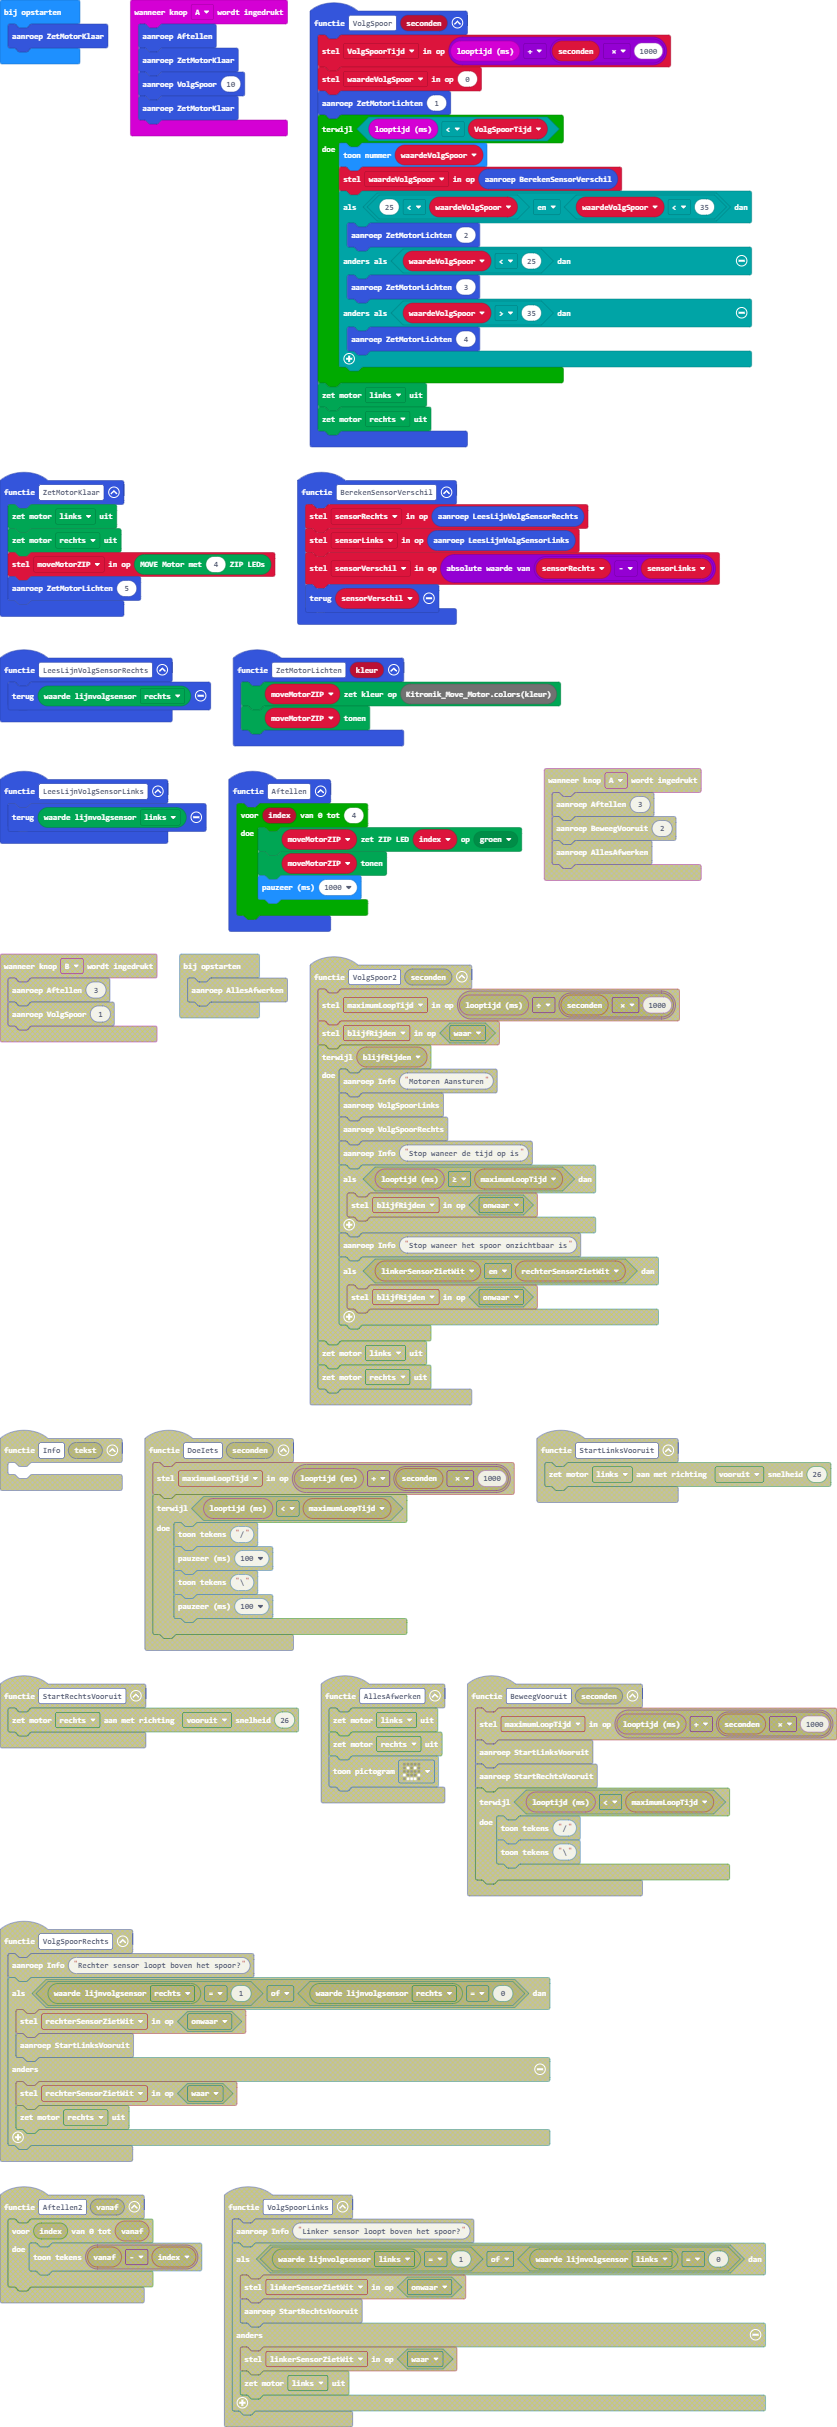
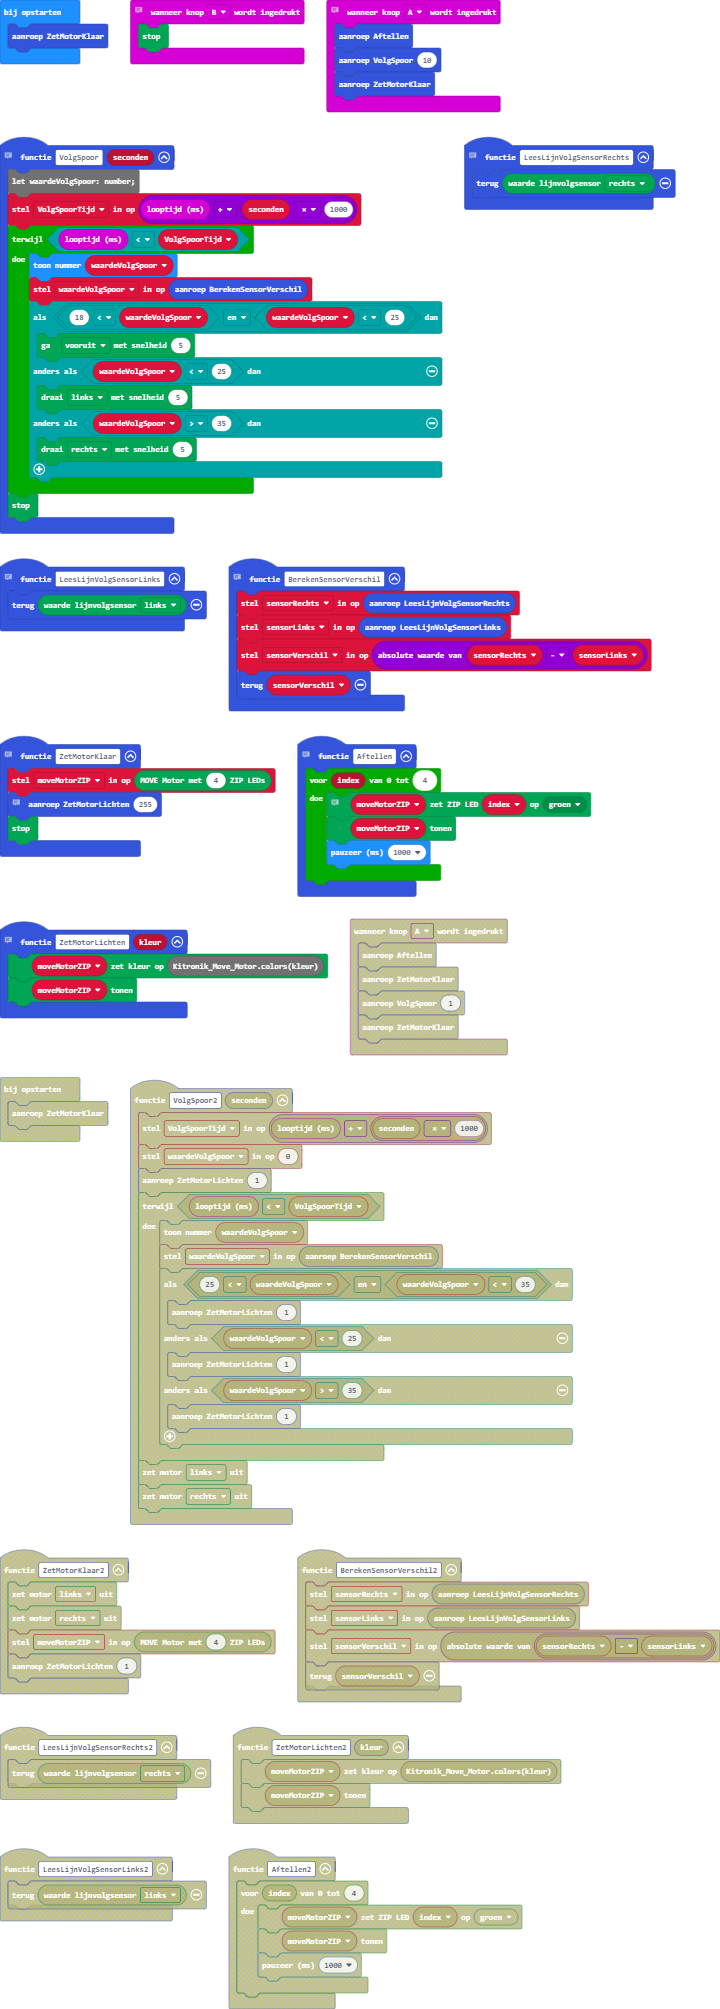
main.blocks, main.ts, main.py bijwerken

diff --git a/main.ts b/main.ts
@@ -1,57 +1,66 @@
+// Tel van 4 tot 0 en verander telkens 1 LED van kleur.
 function Aftellen () {
     for (let index = 0; index <= 4; index++) {
+        // Kitronik_Move_Motor.ZipLedColors.GREEN = 65280
         moveMotorZIP.setZipLedColor(index, Kitronik_Move_Motor.colors(Kitronik_Move_Motor.ZipLedColors.Green))
         moveMotorZIP.show()
         basic.pause(1000)
     }
 }
+// Waneer op knop A gedrukt word tel af en volg het spoor geduurende 10 seconden.
 input.onButtonPressed(Button.A, function () {
     Aftellen()
-    ZetMotorKlaar()
     VolgSpoor(10)
     ZetMotorKlaar()
 })
+// Zet de :Move motor klaar voor hij de lijn zal volgen.
 function ZetMotorKlaar () {
-    Kitronik_Move_Motor.motorOff(Kitronik_Move_Motor.Motors.MotorLeft)
-    Kitronik_Move_Motor.motorOff(Kitronik_Move_Motor.Motors.MotorRight)
     moveMotorZIP = Kitronik_Move_Motor.createMoveMotorZIPLED(4)
-    ZetMotorLichten(5)
+    // Kitronik_Move_Motor.ZipLedColors.BLUE = 255
+    ZetMotorLichten(255)
+    Kitronik_Move_Motor.stop()
 }
+// Bereken het verschil tussen de linkse en rechtse sensor.
 function BerekenSensorVerschil () {
     sensorRechts = LeesLijnVolgSensorRechts()
     sensorLinks = LeesLijnVolgSensorLinks()
     sensorVerschil = Math.abs(sensorRechts - sensorLinks)
     return sensorVerschil
 }
+// Lees de waarde van de rechter lijnvolgsensor. Deze kan tussen de 0 en de 1023 liggen.
 function LeesLijnVolgSensorRechts () {
     return Kitronik_Move_Motor.readSensor(Kitronik_Move_Motor.LfSensor.Right)
 }
+// De functie om het spoor te volgen.
 function VolgSpoor (seconden: number) {
-    VolgSpoorTijd = input.runningTime() + seconden * 1000
-    waardeVolgSpoor = 0
-    ZetMotorLichten(1)
+    let waardeVolgSpoor: number;
+VolgSpoorTijd = input.runningTime() + seconden * 1000
     while (input.runningTime() < VolgSpoorTijd) {
         basic.showNumber(waardeVolgSpoor)
         waardeVolgSpoor = BerekenSensorVerschil()
-        if (25 < waardeVolgSpoor && waardeVolgSpoor < 35) {
-            ZetMotorLichten(2)
+        if (18 < waardeVolgSpoor && waardeVolgSpoor < 25) {
+            Kitronik_Move_Motor.move(Kitronik_Move_Motor.DriveDirections.Forward, 5)
         } else if (waardeVolgSpoor < 25) {
-            ZetMotorLichten(3)
+            Kitronik_Move_Motor.spin(Kitronik_Move_Motor.SpinDirections.Left, 5)
         } else if (waardeVolgSpoor > 35) {
-            ZetMotorLichten(4)
+            Kitronik_Move_Motor.spin(Kitronik_Move_Motor.SpinDirections.Right, 5)
         }
     }
-    Kitronik_Move_Motor.motorOff(Kitronik_Move_Motor.Motors.MotorLeft)
-    Kitronik_Move_Motor.motorOff(Kitronik_Move_Motor.Motors.MotorRight)
+    Kitronik_Move_Motor.stop()
 }
+// Waneer op knop B gedrukt wordt stop de :Move motor.
+input.onButtonPressed(Button.B, function () {
+    Kitronik_Move_Motor.stop()
+})
+// Zet de LEDs op een andere kleur. De waarden kan je terugvinden op: https://github.com/KitronikLtd/pxt-kitronik-zip-64/blob/master/zip64.ts.
 function ZetMotorLichten (kleur: number) {
     moveMotorZIP.setColor(Kitronik_Move_Motor.colors(kleur))
     moveMotorZIP.show()
 }
+// Lees de waarde van de linker lijnvolgsensor. Deze kan tussen de 0 en de 1023 liggen.
 function LeesLijnVolgSensorLinks () {
     return Kitronik_Move_Motor.readSensor(Kitronik_Move_Motor.LfSensor.Left)
 }
-let waardeVolgSpoor = 0
 let VolgSpoorTijd = 0
 let sensorVerschil = 0
 let sensorLinks = 0

diff --git a/main.py b/main.py
@@ -1,0 +1,66 @@
+# Tel van 4 tot 0 en verander telkens 1 LED van kleur.
+def Aftellen():
+    for index in range(5):
+        # Kitronik_Move_Motor.ZipLedColors.GREEN = 65280
+        moveMotorZIP.set_zip_led_color(index,
+            Kitronik_Move_Motor.colors(Kitronik_Move_Motor.ZipLedColors.GREEN))
+        moveMotorZIP.show()
+        basic.pause(1000)
+# Waneer op knop A gedrukt word tel af en volg het spoor geduurende 10 seconden.
+
+def on_button_pressed_a():
+    Aftellen()
+    VolgSpoor(10)
+    ZetMotorKlaar()
+input.on_button_pressed(Button.A, on_button_pressed_a)
+
+# Zet de :Move motor klaar voor hij de lijn zal volgen.
+def ZetMotorKlaar():
+    global moveMotorZIP
+    moveMotorZIP = Kitronik_Move_Motor.create_move_motor_zipled(4)
+    # Kitronik_Move_Motor.ZipLedColors.BLUE = 255
+    ZetMotorLichten(255)
+    Kitronik_Move_Motor.stop()
+# Bereken het verschil tussen de linkse en rechtse sensor.
+def BerekenSensorVerschil():
+    global sensorRechts, sensorLinks, sensorVerschil
+    sensorRechts = LeesLijnVolgSensorRechts()
+    sensorLinks = LeesLijnVolgSensorLinks()
+    sensorVerschil = abs(sensorRechts - sensorLinks)
+    return sensorVerschil
+# Lees de waarde van de rechter lijnvolgsensor. Deze kan tussen de 0 en de 1023 liggen.
+def LeesLijnVolgSensorRechts():
+    return Kitronik_Move_Motor.read_sensor(Kitronik_Move_Motor.LfSensor.RIGHT)
+# De functie om het spoor te volgen.
+def VolgSpoor(seconden: number):
+    global VolgSpoorTijd
+    VolgSpoorTijd = input.running_time() + seconden * 1000
+    while input.running_time() < VolgSpoorTijd:
+        basic.show_number(waardeVolgSpoor)
+        waardeVolgSpoor = BerekenSensorVerschil()
+        if 18 < waardeVolgSpoor and waardeVolgSpoor < 25:
+            Kitronik_Move_Motor.move(Kitronik_Move_Motor.DriveDirections.FORWARD, 5)
+        elif waardeVolgSpoor < 25:
+            Kitronik_Move_Motor.spin(Kitronik_Move_Motor.SpinDirections.LEFT, 5)
+        elif waardeVolgSpoor > 35:
+            Kitronik_Move_Motor.spin(Kitronik_Move_Motor.SpinDirections.RIGHT, 5)
+    Kitronik_Move_Motor.stop()
+# Waneer op knop B gedrukt wordt stop de :Move motor.
+
+def on_button_pressed_b():
+    Kitronik_Move_Motor.stop()
+input.on_button_pressed(Button.B, on_button_pressed_b)
+
+# Zet de LEDs op een andere kleur. De waarden kan je terugvinden op: https://github.com/KitronikLtd/pxt-kitronik-zip-64/blob/master/zip64.ts.
+def ZetMotorLichten(kleur: number):
+    moveMotorZIP.set_color(Kitronik_Move_Motor.colors(kleur))
+    moveMotorZIP.show()
+# Lees de waarde van de linker lijnvolgsensor. Deze kan tussen de 0 en de 1023 liggen.
+def LeesLijnVolgSensorLinks():
+    return Kitronik_Move_Motor.read_sensor(Kitronik_Move_Motor.LfSensor.LEFT)
+VolgSpoorTijd = 0
+sensorVerschil = 0
+sensorLinks = 0
+sensorRechts = 0
+moveMotorZIP: Kitronik_Move_Motor.MoveMotorZIP = None
+ZetMotorKlaar()
